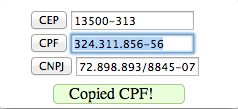
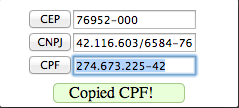
created v1.0.0

diff --git a/src/popup.html b/src/popup.html
@@ -1,27 +1,27 @@
 <!doctype html>
 <html>
-  <head>
+<head>
     <title>Brazil codes generator</title>
     <script src="jquery.min.js"></script>
     <script src="popup.js"></script>
     <link rel="stylesheet" type="text/css" href="popup.css">
-  </head>
-  <body>
-	<ul>
-	    <li>
-	        <button id="cep">CEP</button>
-	        <input type="text" id="cepValue">
-	    </li>
-	    <li>
-	        <button id="cpf">CPF</button>
-	        <input type="text" id="cpfValue">
-	    </li>
-        <li>
-            <button id="cnpj">CNPJ</button>
-            <input type="text" id="cnpjValue">
-        </li>
-	</ul>
-	<div id="status">&nbsp;
-	    </div>
-  </body>
+</head>
+<body>
+<ul>
+    <li>
+        <button id="cep">CEP</button>
+        <input type="text" id="cepValue">
+    </li>
+    <li>
+        <button id="cnpj">CNPJ</button>
+        <input type="text" id="cnpjValue">
+    </li>
+    <li>
+        <button id="cpf">CPF</button>
+        <input type="text" id="cpfValue">
+    </li>
+</ul>
+<div id="status">&nbsp;
+</div>
+</body>
 </html>

diff --git a/src/popup.css b/src/popup.css
@@ -1,31 +1,37 @@
 body {
-    height: 90px;
+  height: 90px;
 }
+
 ul {
-    width: 220px;
-    height: 75px;
-    list-style-type: none;
-    margin: 0;
-    padding: 0;
+  width: 220px;
+  height: 75px;
+  list-style-type: none;
+  margin: 0;
+  padding: 0;
 }
+
 li {
-    margin: 0 20px;
-    cursor: pointer;
+  margin: 0 20px;
+  cursor: pointer;
 }
+
 li button {
-    float: left;
-    cursor: pointer;
+  float: left;
+  width: 42px;
+  cursor: pointer;
 }
+
 li input {
-    cursor: pointer;
+  cursor: pointer;
 }
+
 #status {
-    display: none;
-    margin: auto;
-    width: 100px;
-    height: 18px;
-    border-radius: 5px;
-    padding: 0 15px;
-    background-color: #e9ffd9;
-    border: 1px solid #a6ca8a;
+  display: none;
+  margin: auto;
+  width: 100px;
+  height: 18px;
+  border-radius: 5px;
+  padding: 0 15px;
+  background-color: #e9ffd9;
+  border: 1px solid #a6ca8a;
 }

diff --git a/src/popup.js b/src/popup.js
@@ -64,20 +64,20 @@ var sergejJevsejevBrazilCodeGenerator = {
     }
 
     d1 = 0;
-    for(i = 1; i<=8; i++){
+    for (i = 1; i <= 8; i++) {
       d1 += n[13 - i] * (i + 1);
     }
-    for(i = 9; i<=12; i++){
+    for (i = 9; i <= 12; i++) {
       d1 += n[13 - i] * (i - 7);
     }
     d1 = 11 - (d1 % 11);
     if (d1 >= 10) d1 = 0;
 
     d2 = d1 * 2;
-    for(i = 3; i<=9; i++){
+    for (i = 3; i <= 9; i++) {
       d2 += n[15 - i] * i;
     }
-    for(i = 2; i<=6; i++){
+    for (i = 2; i <= 6; i++) {
       d2 += n[7 - i] * i;
     }
     d2 = 11 - (d2 % 11);
